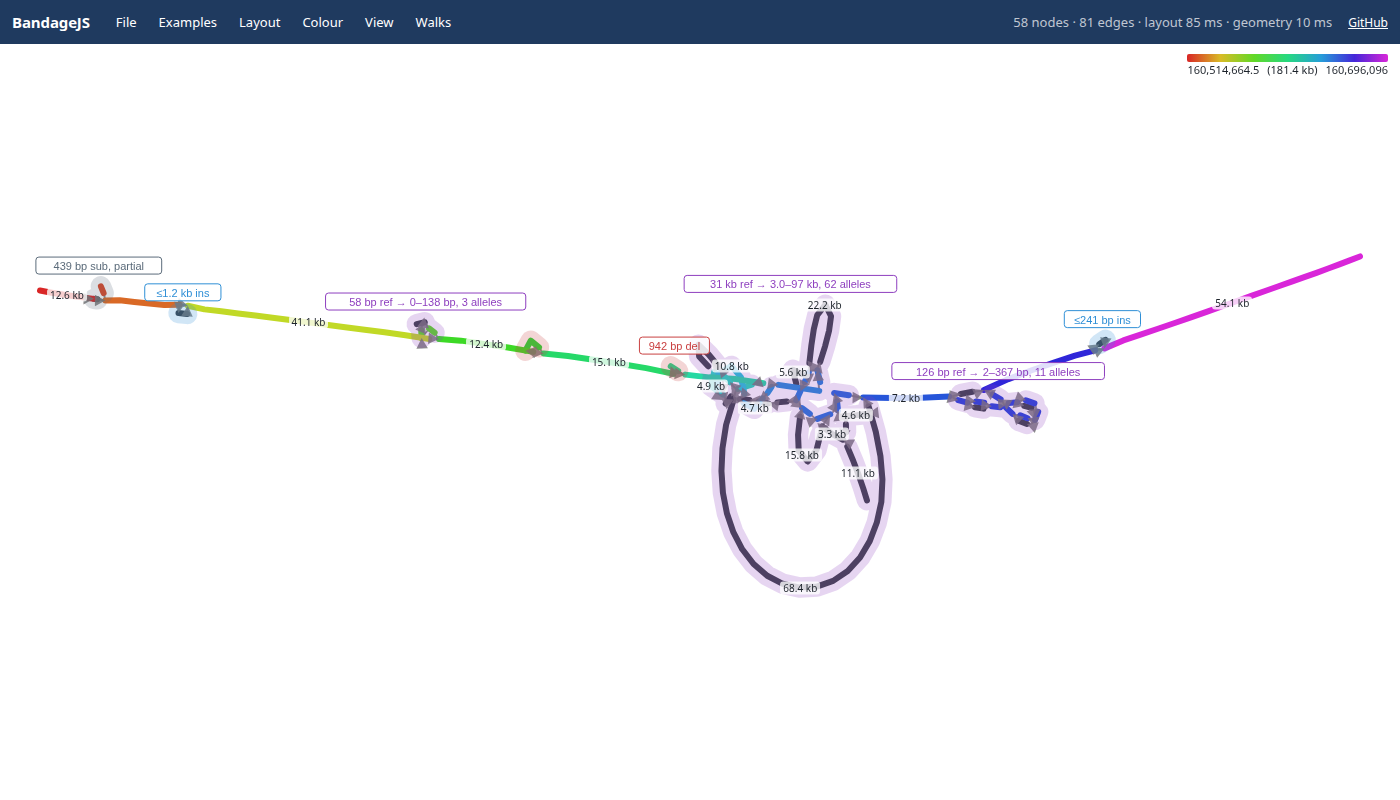
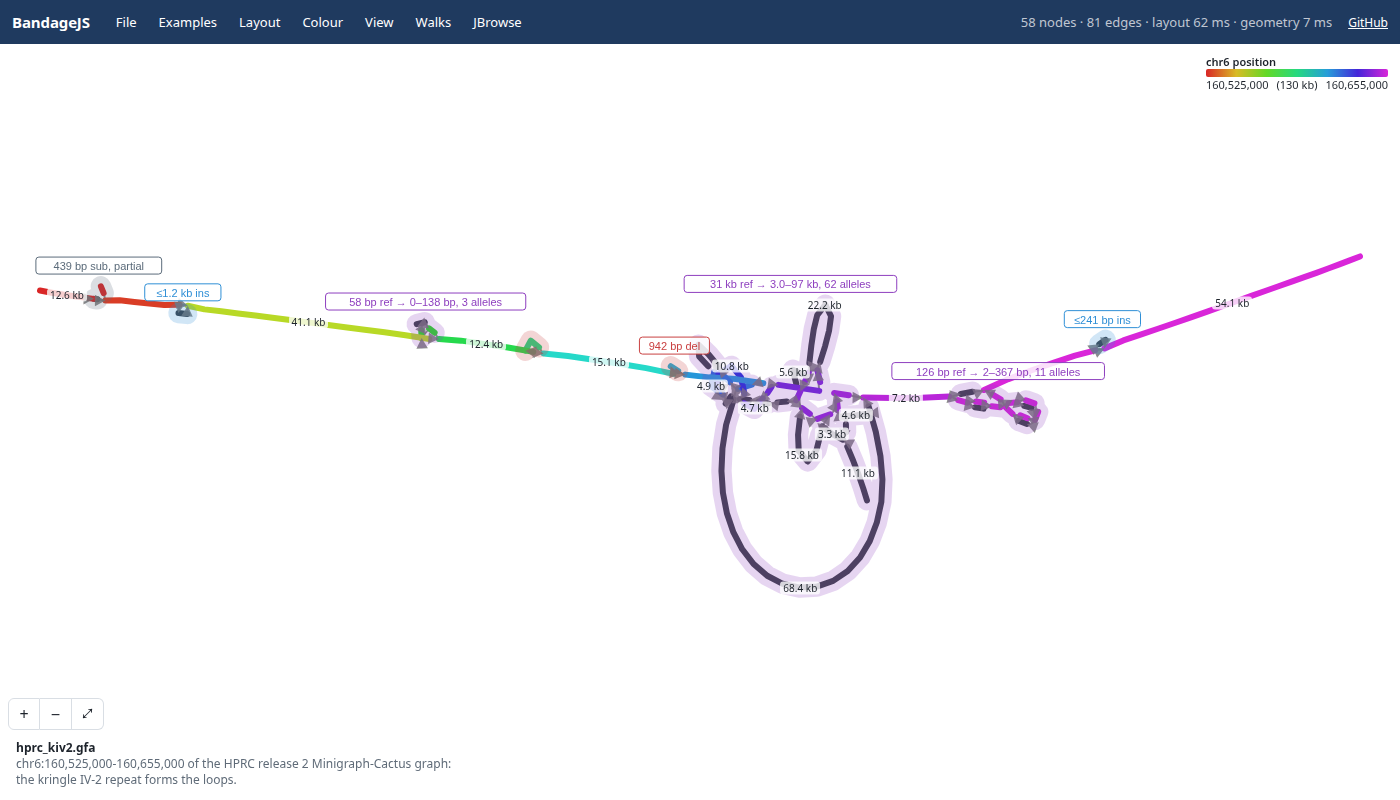
README figures: an assembly graph, AMY1 and a tube map, and KIV-2 reshot

diff --git a/README.md b/README.md
@@ -6,12 +6,25 @@ View GFA graphs in the browser: https://jbrowse.org/demos/bandagejs/
 
 - Bandage's FMMM layout, compiled to wasm and run in a worker
 - Anchored, ordered, sample-row, walk-row and variant-map layouts for graphs
-  with reference coordinates
+  with reference coordinates, and sequenceTubeMap's tube map for graphs with
+  paths
 - Bubbles labelled by kind, and haplotype walks you can lift out of the drawing
 - Open a file, paste a url, drop a GFA (plain or gzipped), or use `?gfa=<url>`
 - The Open dialog lists recent files, urls and cuts to reopen in a click
 - Cut a region live from a gbz-base database, such as HPRC's:
   `?gbz=hprc&loc=chr6:160,614,798-160,647,758&haps=HG00097,HG00133`
+
+A de novo assembly graph, coloured at random per contig as Bandage does:
+
+![A 64-contig assembly graph, force-directed](img/assembly_graph.png)
+
+The amylase copy-number region, AMY1, from the HPRC graph:
+
+![AMY1 from the HPRC graph, force-directed](img/amy1_force.png)
+
+Five E. coli strains through a pggb graph, as a tube map:
+
+![The pggb E. coli subgraph as a tube map](img/tube_map.png)
 
 Built on the core of
 [jbrowse-plugin-graphgenomeviewer](https://github.com/GMOD/jbrowse-plugin-graphgenomeviewer),
